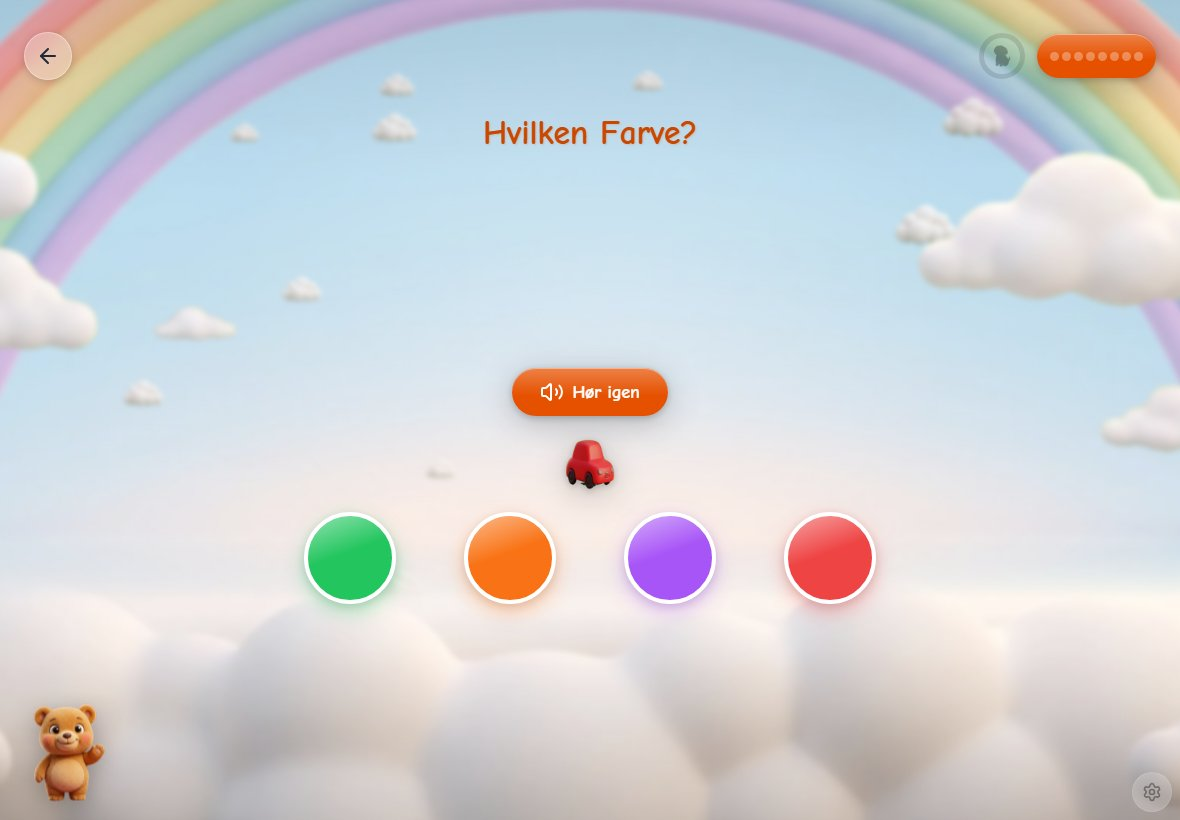
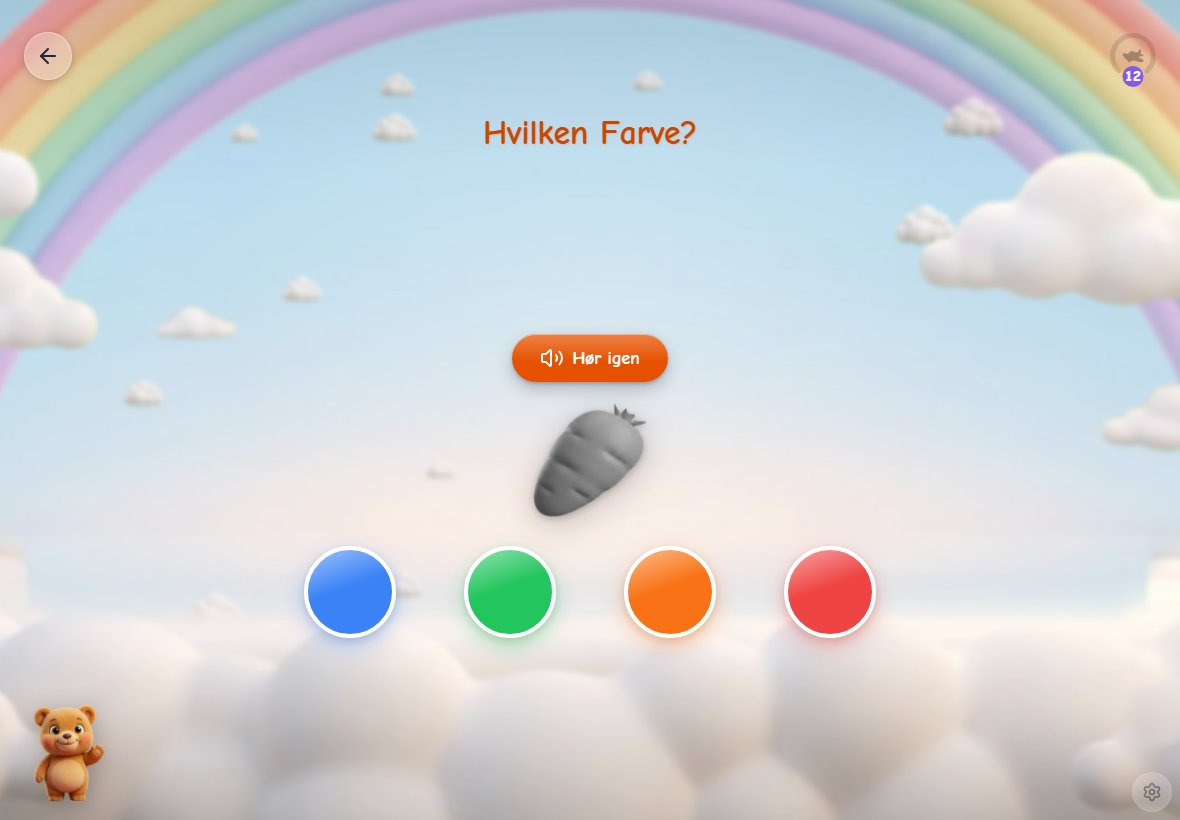
docs(ui-reference): Hvilken Farve? re-captured — the old pair predated the grey object entirely
`ipad/farver-quiz` + `phone/farver-quiz` still showed a RED CAR IN FULL COLOUR:
both the pixel-match giveaway PRD-02 closes and `bil`, a non-canonical subject
the game stopped asking. They were the last captures from 2026-08-01, before the
object was greyed at any level.

New `ipad/farver-quiz-let` documents the board PRD-02 actually changed — 3
swatches, no wheel neighbour of the answer among them (grey gulerod → lilla /
orange / blå). Captured by forcing the level in an `--eval`, which the README now
records along with why these three carry `?rewards=12`.

diff --git a/docs/ui-reference/README.md b/docs/ui-reference/README.md
@@ -32,6 +32,13 @@ Min Bog's book/sparkle come from `src/assets/ui/`; the theme picker shows baked 
 profiles show baked avatar portraits; and every adult dialog is on lucide icons.
 `overlays/profiles-panel.jpg` is NEW in this pass.
 
+**Hvilken Farve?, re-captured 2026-08-05 (Difficulty PRD-02).** `ipad/farver-quiz` and
+`phone/farver-quiz` were the last stragglers from before the object was greyed out at all — the old pair
+showed a **red car in full colour**, i.e. both the pixel-match giveaway and a non-canonical subject the
+game no longer asks. New `ipad/farver-quiz-let` covers the 3-swatch Let board. These three are the only
+game captures taken at `?rewards=12` besides `home`/`album`, so the header ring reads as played rather
+than empty; the rest of the set has an empty gauge because a fresh Chrome profile has no progress.
+
 **Adult settings, re-captured 2026-08-02 (Settings PRD-01).** The `overlays/` set no longer contains
 `adult-menu`, `profiles-panel`, `theme-panel`, `difficulty-panel` or `voice-panel` — that flat
 13-row scrolling dialog and its six sibling sub-panels were replaced by ONE two-pane surface with a
@@ -68,7 +75,8 @@ click `[aria-label="Tilbage"]` first).
 | `farver` | `/farver` | Farver menu (5 cards) |
 | `farver-laer` | `/farver/laer` | Lær Farver (shade trio browse) |
 | `farver-jagt` | `/farver/jagt` | Farvejagt (drag board + target ring) |
-| `farver-quiz` | `/farver/quiz` | Hvilken Farve? (drag onto swatch) |
+| `farver-quiz` | `/farver/quiz` | Hvilken Farve? (drag onto swatch) — the prompt object is DESATURATED at every level (Difficulty PRD-02) |
+| `farver-quiz-let` (ipad only) | `/farver/quiz` | The same board at **Let**: 3 swatches, and no wheel neighbour of the answer among them. Captured with `window.__progress.setDifficulty({global:'let'})` in an `--eval`, since Let is where PRD-02 changed the board |
 | `farver-ram-farven` | `/farver/ram-farven` | Ram Farven (mixing station + droplets) |
 | `farver-nuancer` | `/farver/nuancer` | Nuancer (light→dark slots) |
 | `english` | `/english` | Engelsk menu |
